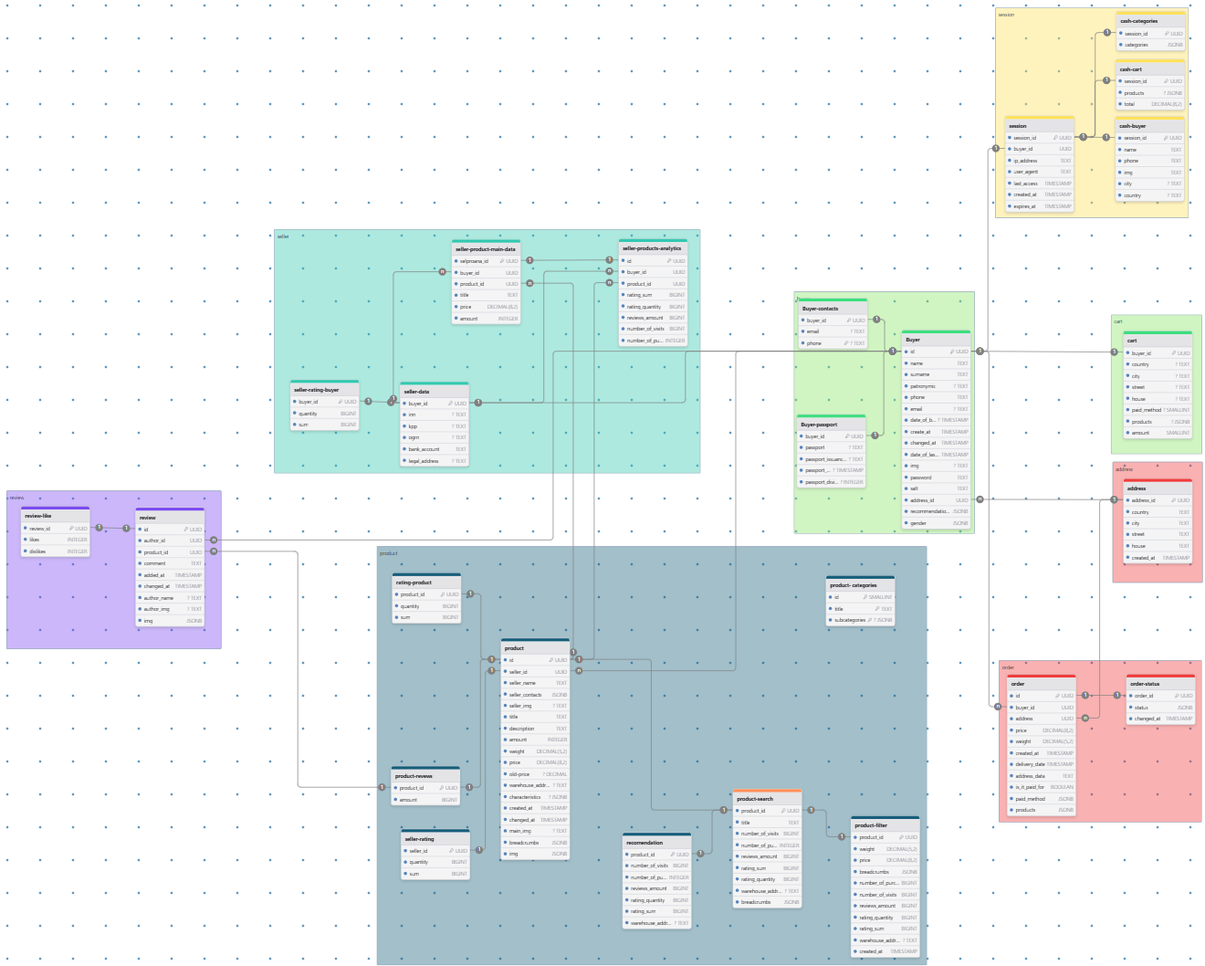
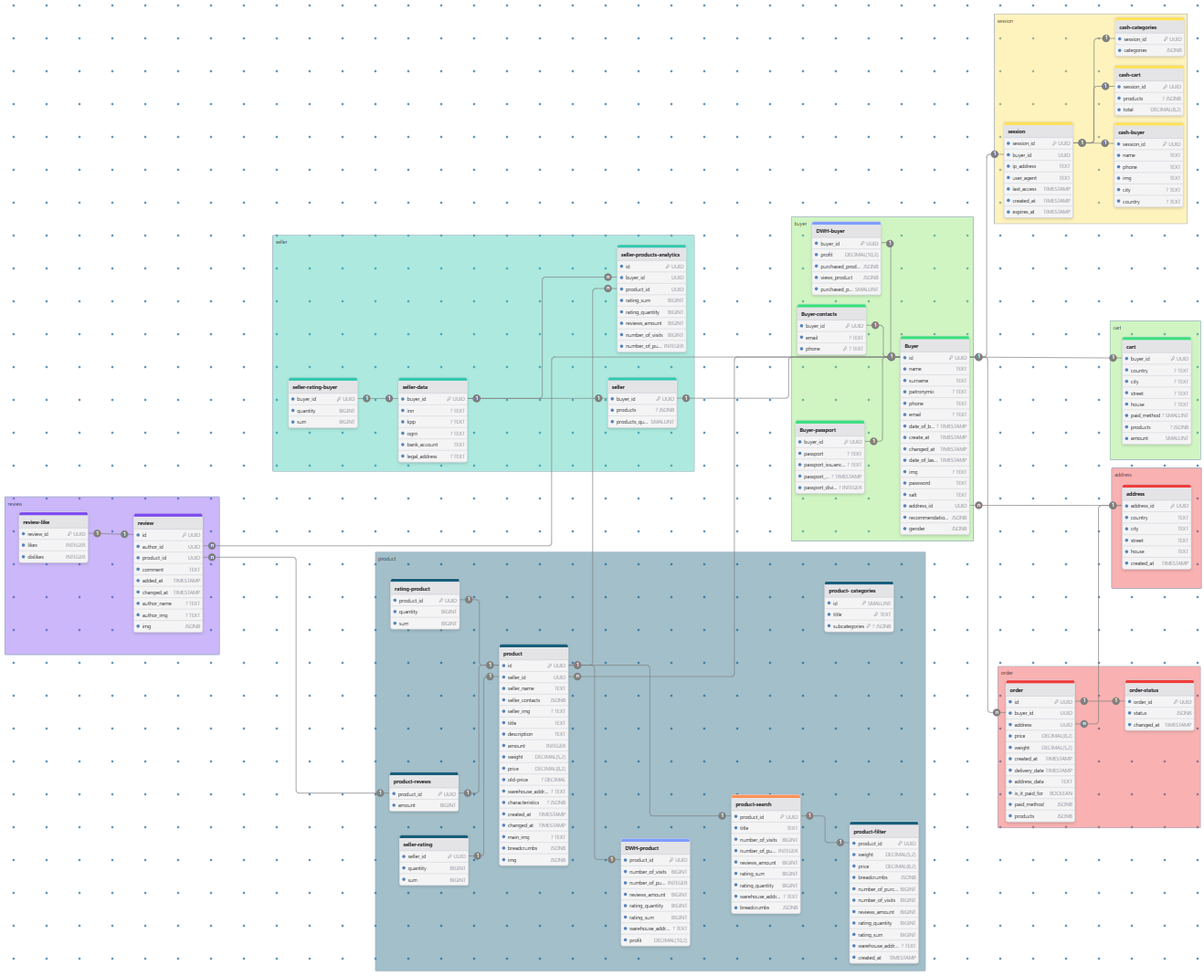
[fix] добавлен DWH и немного подправлена логика продавца

diff --git a/README.md b/README.md
@@ -786,7 +786,7 @@ Anycast позволяет оптимизировать маршрутизаци
 **Общая схема:**
 
 ![img_6.png](img%2F5%2Fimg_6.png)
-
+ 
 **Теперь покажем приближенные фрагменты**
 
 *Пользователь:*
@@ -836,14 +836,14 @@ URL: [https://www.drawdb.app/editor?shareId=b53cf5f4253d7b82c51b3d435ac52a20](ht
 **Объяснение:**
 - **Объединение:** данные по сессии и кеши объединены в одну базу данных, так как они часто запрашиваются вместе и требуют высокой скорости доступа.
 - **Добавленные кэш-таблицы:**
-   - **`cash-buyer`:** Хранит часто используемые данные покупателя (`name`, `phone`, `img`, `city`, `country`) для быстрого доступа по `session_id`.
-   - **`cash-cart`:** Хранит данные корзины (`products` в JSONB, `total`) для быстрого доступа и обновления. 
-   - **`cash-categories`:** Хранит структуру категорий и подкатегорий в JSONB для быстрого отображения каталога.
-- **Индексы:** Уникальный индекс на `session_id` обеспечивает быстрый доступ к кэшированным данным.
-- **Денормализация:** В `cash-cart` и `cash-categories` используется JSONB для хранения вложенных данных (список товаров и категории), что ускоряет доступ и исключает необходимость в JOIN.
+   - **`cash-buyer`:** хранит часто используемые данные покупателя (`name`, `phone`, `img`, `city`, `country`) для быстрого доступа по `session_id`.
+   - **`cash-cart`:** хранит данные корзины (`products` в JSONB, `total`) для быстрого доступа и обновления. 
+   - **`cash-categories`:** хранит структуру категорий и подкатегорий в JSONB для быстрого отображения каталога.
+- **Индексы:** уникальный индекс на `session_id` обеспечивает быстрый доступ к кэшированным данным.
+- **Денормализация:** в `cash-cart` и `cash-categories` используется JSONB для хранения вложенных данных (список товаров и категории), что ускоряет доступ и исключает необходимость в JOIN.
 - **СУБД:** Redis выбран для кэш-таблиц из-за высокой скорости работы с данными в памяти;
-- **Шардирование:** По `session_id` для равномерного распределения нагрузки между шардами.
-- **Резервирование:** Репликация обеспечивает отказоустойчивость.
+- **Шардирование:** по `session_id` для равномерного распределения нагрузки между шардами.
+- **Резервирование:** репликация обеспечивает отказоустойчивость.
 
 ### 1. Пользовательские данные
 | **Таблица**      | **Описание**                                                                          | **Индексы**                                                                                            | **Денормализация**                                                                                            | **СУБД**     | **Шардирование** | **Резервирование**                | **Клиентские библиотеки / Интеграции**             |
@@ -854,12 +854,12 @@ URL: [https://www.drawdb.app/editor?shareId=b53cf5f4253d7b82c51b3d435ac52a20](ht
 | `cart`           | Корзина покупателя: товары, адрес доставки.                                           | `buyer_id` (PK)                                                                                        | `products` в JSONB для хранения списка товаров без JOIN.                                                      | PostgreSQL   | По `buyer_id`    | Репликация + WAL + pg_basebackup  | SQLAlchemy, Hibernate, Redis (кэш)                 |
 
 **Объяснение:**
-- **Объединение:** Отдельная база данных для пользовательских данных, так как они часто запрашиваются вместе и требуют высокой скорости доступа и транзакционной целостности.
-- **Индексы:** Уникальные индексы на `email` и `phone` для быстрого поиска. Индексы на даты для аналитики.
+- **Объединение:** отдельная база данных для пользовательских данных, так как они часто запрашиваются вместе и требуют высокой скорости доступа и транзакционной целостности.
+- **Индексы:** уникальные индексы на `email` и `phone` для быстрого поиска. Индексы на даты для аналитики.
 - **Денормализация:** `recommendation_data` в `Buyer` хранит метрики и историю в JSONB, чтобы избежать JOIN.
 - **СУБД:** PostgreSQL для сложных транзакций.
-- **Шардирование:** По `buyer_id` для равномерного распределения нагрузки.
-- **Резервирование:** Репликация для отказоустойчивости.
+- **Шардирование:** по `buyer_id` для равномерного распределения нагрузки.
+- **Резервирование:** репликация для отказоустойчивости.
 
 ### 2 Продукты и связанные данные
 
@@ -870,7 +870,6 @@ URL: [https://www.drawdb.app/editor?shareId=b53cf5f4253d7b82c51b3d435ac52a20](ht
 | `product-filter`           | Данные для фильтрации продуктов: цена, вес, категории.       | `product_id` (PK)                                           | Дублирует данные из `product` и `product-search` для ускорения фильтрации.     | PostgreSQL     | По `product_id`  | Репликация + WAL + pg_basebackup  | SQLAlchemy, Hibernate                       |
 | `product-reviews`          | Количество отзывов по продуктам.                             | `product_id` (PK)                                           | Нет                                                                            | PostgreSQL     | По `product_id`  | Репликация + WAL + pg_basebackup  | SQLAlchemy, Hibernate                       |
 | `rating-product`           | Рейтинг продуктов: количество оценок и их сумма.             | `product_id` (PK)                                           | Нет                                                                            | PostgreSQL     | По `product_id`  | Репликация + WAL + pg_basebackup  | SQLAlchemy, Hibernate                       |
-| `recomendation`            | Данные для рекомендаций: посещения, покупки, рейтинги.       | `product_id` (PK)                                           | Денормализована для быстрого доступа к данным рекомендаций.                    | PostgreSQL     | По `product_id`  | Репликация + WAL + pg_basebackup  | SQLAlchemy, Hibernate                       |
 | `product-categories`       | Категории продуктов и подкатегории.                          | `id` (PK), `title`                                          | `subcategories` в JSONB для хранения вложенных данных.                         | PostgreSQL     | Нет              | Репликация + WAL + pg_basebackup  | SQLAlchemy, Hibernate                       |
 | `seller-rating`            | Рейтинг продавцов: сумма и количество оценок.                | `seller_id` (PK)                                            | Нет                                                                            | PostgreSQL     | По `seller_id`   | Репликация + WAL + pg_basebackup  | SQLAlchemy, Hibernate                       |
 
@@ -880,12 +879,12 @@ URL: [https://www.drawdb.app/editor?shareId=b53cf5f4253d7b82c51b3d435ac52a20](ht
 | `product-search`           | Данные для полнотекстового поиска: название, метрики.        | `product_id` (PK), `title`                                  | Денормализована для быстрого поиска, дублирует данные из `product`.            | Elasticsearch  | По `product_id`   | Снапшоты + репликация шардов | Elasticsearch-Py (Python), Java REST Client |
 
 **Объяснение:**
-- **Объединение:** Отдельная база данных для продуктов, так как они часто запрашиваются вместе и требуют быстрого поиска.
+- **Объединение:** отдельная база данных для продуктов, так как они часто запрашиваются вместе и требуют быстрого поиска.
 - **Индексы:** `seller_id` для поиска по продавцу, `title` для поиска по названию.
 - **Денормализация:** `product-search` и `recomendation` содержат дублирующие данные для ускорения операций.
 - **СУБД:** Elasticsearch для `product-search` (поиск), PostgreSQL для остальных (транзакции и аналитика).
-- **Шардирование:** По `product_id` для распределения нагрузки.
-- **Резервирование:** Репликация для отказоустойчивости.
+- **Шардирование:** по `product_id` для распределения нагрузки.
+- **Резервирование:** репликация для отказоустойчивости.
 
 ### 3. Отзывы и рейтинги
 | **Таблица**    | **Описание**                                  | **Индексы**                                         | **Денормализация**                                  | **СУБД**      | **Шардирование**  | **Резервирование**                | **Клиентские библиотеки / Интеграции**      |
@@ -894,28 +893,28 @@ URL: [https://www.drawdb.app/editor?shareId=b53cf5f4253d7b82c51b3d435ac52a20](ht
 | `review-like`  | Лайки и дизлайки отзывов.                     | `review_id` (PK)                                    | Нет                                                 | PostgreSQL    | По `review_id`    | Репликация + WAL + pg_basebackup  | SQLAlchemy, Hibernate, Kafka (очереди)      |
 
 **Объяснение:**
-- **Объединение:** Отдельная база данных для отзывов из-за их объема и необходимости отдельного управления.
+- **Объединение:** отдельная база данных для отзывов из-за их объема и необходимости отдельного управления.
 - **Индексы:** `product_id` и `author_id` для быстрого доступа к отзывам по продукту или автору.
 - **Денормализация:** `img` в JSONB для уменьшения JOIN.
 - **СУБД:** PostgreSQL для транзакций и сложных запросов.
-- **Шардирование:** По `product_id` или `review_id` для распределения нагрузки.
-- **Резервирование:** Репликация для отказоустойчивости.
+- **Шардирование:** по `product_id` или `review_id` для распределения нагрузки.
+- **Резервирование:** репликация для отказоустойчивости.
 
 ### 4. Продавцы и их данные
-| **Таблица**                 | **Описание**                                                | **Индексы**                                   | **Денормализация** | **СУБД**       | **Шардирование**    | **Резервирование**                | **Клиентские библиотеки / Интеграции** |
-|-----------------------------|-------------------------------------------------------------|-----------------------------------------------|--------------------|----------------|---------------------|-----------------------------------|----------------------------------------|
-| `seller-data`               | Данные продавцов: ИНН, банковские реквизиты.                | `buyer_id` (PK)                               | Нет                | PostgreSQL     | По `buyer_id`       | Репликация + WAL + pg_basebackup  | SQLAlchemy, Hibernate                  |
-| `seller-rating-buyer`       | Рейтинг продавцов от покупателей.                           | `buyer_id` (PK)                               | Нет                | PostgreSQL     | По `buyer_id`       | Репликация + WAL + pg_basebackup  | SQLAlchemy, Hibernate                  |
-| `seller-products-analytics` | Аналитика продуктов продавца: посещения, покупки, рейтинги. | `id` (PK), `buyer_id`, `product_id`           | Нет                | PostgreSQL     | По `buyer_id`       | Репликация + WAL + pg_basebackup  | SQLAlchemy, Hibernate                  |
-| `seller-product-main-data`  | Основные данные продуктов продавца: цена, количество.       | `selproana_id` (PK), `buyer_id`, `product_id` | Нет                | PostgreSQL     | По `buyer_id`       | Репликация + WAL + pg_basebackup  | SQLAlchemy, Hibernate                  |
+| **Таблица**                 | **Описание**                                                | **Индексы**                         | **Денормализация**       | **СУБД**       | **Шардирование**   | **Резервирование**                 | **Клиентские библиотеки / Интеграции** |
+|-----------------------------|-------------------------------------------------------------|-------------------------------------|--------------------------|----------------|--------------------|------------------------------------|----------------------------------------|
+| `seller`                    | Данные продавцов: список продуктов и их количество.         | `buyer_id` (PK)                     | Да (JSONB для продуктов) | PostgreSQL     | По `buyer_id`      | Репликация + WAL + pg_basebackup   | SQLAlchemy, Hibernate                  |
+| `seller-data`               | Данные продавцов: ИНН, банковские реквизиты.                | `buyer_id` (PK)                     | Нет                      | PostgreSQL     | По `buyer_id`      | Репликация + WAL + pg_basebackup   | SQLAlchemy, Hibernate                  |
+| `seller-rating-buyer`       | Рейтинг продавцов от покупателей.                           | `buyer_id` (PK)                     | Нет                      | PostgreSQL     | По `buyer_id`      | Репликация + WAL + pg_basebackup   | SQLAlchemy, Hibernate                  |
+| `seller-products-analytics` | Аналитика продуктов продавца: посещения, покупки, рейтинги. | `id` (PK), `buyer_id`, `product_id` | Нет                      | PostgreSQL     | По `buyer_id`      | Репликация + WAL + pg_basebackup   | SQLAlchemy, Hibernate                  |
 
 **Объяснение:**
-- **Объединение:** Отдельная база данных для продавцов, так как данные связаны с продуктами и пользователями.
-- **Индексы:** Индексы на ключи для быстрого доступа к данным продавцов и их продуктов.
-- **Денормализация:** Не применяется, так как данные нормализованы для целостности.
+- **Объединение:** отдельная база данных для продавцов, так как данные связаны с продуктами и пользователями.
+- **Индексы:** индексы на ключи для быстрого доступа к данным продавцов и их продуктов.
+- **Денормализация:** не применяется, так как данные нормализованы для целостности.
 - **СУБД:** PostgreSQL для транзакций и аналитики.
-- **Шардирование:** По `seller_id` или `buyer_id` для распределения нагрузки.
-- **Резервирование:** Репликация для отказоустойчивости.
+- **Шардирование:** по `buyer_id` для распределения нагрузки.
+- **Резервирование:** репликация для отказоустойчивости.
 
 ### 5. Заказы и корзины
 | **Таблица**    | **Описание**                                       | **Индексы**                                          | **Денормализация**                                                                                                      | **СУБД**       | **Шардирование** | **Резервирование**                | **Клиентские библиотеки / Интеграции** |
@@ -925,18 +924,39 @@ URL: [https://www.drawdb.app/editor?shareId=b53cf5f4253d7b82c51b3d435ac52a20](ht
 | `address`      | Адреса доставки: страна, город, улица.             | `address_id` (PK)                                    | Нет                                                                                                                     | PostgreSQL     | По `address_id`  | Репликация + WAL + pg_basebackup  | SQLAlchemy, Hibernate                  |
 
 **Объяснение:**
-- **Объединение:** Отдельная база данных для заказов из-за высоких требований к целостности и транзакциям.
+- **Объединение:** отдельная база данных для заказов из-за высоких требований к целостности и транзакциям.
 - **Индексы:** `buyer_id` для доступа к заказам пользователя, даты для аналитики.
 - **Денормализация:** `products` в JSONB в `cart` и `order` для ускорения доступа.
 - **СУБД:** PostgreSQL для транзакционной поддержки.
-- **Шардирование:** По `buyer_id` или `order_id` для распределения нагрузки.
-- **Резервирование:** Репликация для отказоустойчивости.
+- **Шардирование:** по `buyer_id` или `order_id` для распределения нагрузки.
+- **Резервирование:** репликация для отказоустойчивости.
+
+### 6. Отдельная бд для DWH в ClickHouse
+| **Таблица**                | **Описание**                                                            | **Индексы**        | **Денормализация**                  | **СУБД**    | **Шардирование** | **Резервирование** | **Клиентские библиотеки / Интеграции** |
+|----------------------------|-------------------------------------------------------------------------|--------------------|-------------------------------------|-------------|------------------|--------------------|----------------------------------------|
+| **`DWH-buyer`**            | Аналитические данные о покупателях: прибыль, покупки, просмотры.        | `buyer_id` (PK)    | Да (JSONB для покупок и просмотров) | ClickHouse  | По `buyer_id`    | Репликация         | clickhouse-driver, JDBC                |
+| **`DWH-product`**          | Аналитические данные о продуктах: посещения, покупки, отзывы, рейтинги. | `product_id` (PK)  | Нет                                 | ClickHouse  | По `product_id`  | Репликация         | clickhouse-driver, JDBC                |
+
+#### Объяснение для таблиц `DWH-buyer` и `DWH-product`:
+- **Объединение**: таблицы предназначены для аналитики и интегрируются в Data Warehouse (DWH). `DWH-buyer` связана с таблицей `Buyer` через `buyer_id`, а `DWH-product` — с таблицей `product` через `product_id`. Они оптимизированы для быстрой обработки больших объемов данных.
+- **Индексы**:
+   - Для `DWH-buyer`: первичный ключ `buyer_id` обеспечивает уникальность и быстрый доступ.
+   - Для `DWH-product`: первичный ключ `product_id` обеспечивает уникальность и быстрый доступ.
+- **Денормализация**:
+   - В `DWH-buyer` поля `purchased_products` и `views_product` используют JSONB для хранения списков купленных и просмотренных продуктов, что ускоряет аналитические запросы без дополнительных соединений.
+   - В `DWH-product` денормализация не применяется, так как данные нормализованы для точности аналитики.
+- **СУБД**: используется ClickHouse, который оптимизирован для аналитических запросов и обработки больших объемов данных.
+- **Шардирование**:
+   - Для `DWH-buyer`: по `buyer_id` для равномерного распределения данных о покупателях.
+   - Для `DWH-product`: по `product_id` для распределения данных о продуктах.
+- **Резервирование**: репликация в ClickHouse обеспечивает отказоустойчивость и доступность данных.
+- **Клиентские библиотеки**: интеграция осуществляется через `clickhouse-driver` для Python или JDBC для Java, что соответствует требованиям аналитических приложений.
 
 ### Итоговые замечания
-- **Индексы:** Настроены для ускорения часто выполняемых запросов (поиск, фильтрация, аналитика).
-- **Денормализация:** Применяется для уменьшения JOIN и ускорения доступа к данным (JSONB активно используется).
-- **Выбор СУБД:** PostgreSQL для транзакций и сложных запросов, Elasticsearch для поиска, Redis для сессий и кешей.
-- **Шардирование и резервирование:** По ключевым полям для масштабируемости и отказоустойчивости.
+- **Индексы:** настроены для ускорения часто выполняемых запросов (поиск, фильтрация, аналитика).
+- **Денормализация:** применяется для уменьшения JOIN и ускорения доступа к данным (JSONB активно используется).
+- **Выбор СУБД:** PostgreSQL для транзакций и сложных запросов, Elasticsearch для поиска, Redis для сессий и кешей и ClickHouse для DWH.
+- **Шардирование и резервирование:** по ключевым полям для масштабируемости и отказоустойчивости.
 - **Клиентские библиотеки:** SQLAlchemy и Hibernate для ORM, Redis для кэширования, Kafka/RabbitMQ для очередей.
 
 ### Балансировка запросов / мультиплексирование подключений
@@ -951,32 +971,35 @@ URL: [https://www.drawdb.app/editor?shareId=b53cf5f4253d7b82c51b3d435ac52a20](ht
 На глобальном уровне запросы распределяются между ЦОДами, расположенными в разных регионах, чтобы пользователи получали доступ к ближайшему доступному ЦОДу.
 
 - **Методы:**
-   - **GeoDNS**: Направляет запросы к ближайшему ЦОДу на основе геолокации пользователя. Например, пользователи из Москвы обращаются к ЦОДу в Москве.
-   - **BGP Anycast**: Один IP-адрес обслуживается несколькими ЦОДами, автоматически направляя трафик к ближайшему узлу по маршрутам BGP.
-   - **Failover**: При отказе одного ЦОДа трафик перенаправляется на другой доступный ЦОД.
+   - **GeoDNS**: направляет запросы к ближайшему ЦОДу на основе геолокации пользователя. Например, пользователи из Москвы обращаются к ЦОДу в Москве.
+   - **BGP Anycast**: один IP-адрес обслуживается несколькими ЦОДами, автоматически направляя трафик к ближайшему узлу по маршрутам BGP.
+   - **Failover**: при отказе одного ЦОДа трафик перенаправляется на другой доступный ЦОД.
 
 - **Применение:**
-   - **Сессии и кэши (Redis)**: Данные сессий (`session`, `cash-buyer`, `cash-cart`) реплицируются между ЦОДами с использованием глобального кэша (например, Redis Cluster с георепликацией). Запросы на чтение идут к ближайшему ЦОДу, а при его недоступности — к резервному.
-   - **Пользовательские данные (PostgreSQL)**: Данные пользователей (`Buyer`, `cart`) шардированы по регионам (см. часть про глобальную балансировку). Запросы на чтение обслуживаются локальными репликами, а запись идет и на региональный ЦОД, и на мастер в основном ЦОДе,который затем раскидывает данные на все остальные.
-   - **Продукты (PostgreSQL и Elasticsearch)**: Данные продуктов (`product`, `product-filter`) также могут быть шардированы по регионам. Поисковые запросы в Elasticsearch распределяются по ближайшему кластеру.
-   - **Отзывы, продавцы, заказы (PostgreSQL)**: Георепликация или шардирование по `product_id`, `buyer_id`, `order_id` обеспечивает доступность данных ближе к пользователю.
+   - **DWH** (ClickHouse): данные в ClickHouse реплицируются между ЦОДами для обеспечения доступности и снижения задержек. Запросы на чтение (например, аналитика заказов или поведения пользователей) направляются к ближайшему ЦОДу, а при его недоступности — к резервному. Запись дублируется в центральный ЦОД (в Москве), который затем синхронизирует данные с региональными ЦОДами, и ближайшим, с которым происходит общение. 
+   - **Сессии и кэши (Redis)**: данные сессий (`session`, `cash-buyer`, `cash-cart`) реплицируются между ЦОДами с использованием глобального кэша (например, Redis Cluster с георепликацией). Запросы на чтение идут к ближайшему ЦОДу, а при его недоступности — к резервному.
+   - **Пользовательские данные (PostgreSQL)**: данные пользователей (`Buyer`, `cart`) шардированы по регионам (см. часть про глобальную балансировку). Запросы на чтение обслуживаются локальными репликами, а запись идет и на региональный ЦОД, и на мастер в основном ЦОДе,который затем раскидывает данные на все остальные.
+   - **Продукты (PostgreSQL и Elasticsearch)**: данные продуктов (`product`, `product-filter`) также могут быть шардированы по регионам. Поисковые запросы в Elasticsearch распределяются по ближайшему кластеру.
+   - **Отзывы, продавцы, заказы (PostgreSQL)**: георепликация или шардирование по `product_id`, `buyer_id`, `order_id` обеспечивает доступность данных ближе к пользователю.
 
 - **Инструменты:**
-   - GeoDNS-серверы (например, Cloudflare, Route 53).
+   - GeoDNS-серверы (Cloudflare, Route 53).
    - BGP Anycast через сетевую инфраструктуру провайдера.
 
 ##### Локальная балансировка запросов
 Внутри каждого ЦОДа запросы распределяются между серверами и экземплярами баз данных для оптимизации локальных ресурсов.
 
 - **Применение:**
-   - **Сессии и кэши (Redis)**: Локальный балансировщик (HAProxy) распределяет запросы между шардами Redis внутри ЦОДа. Redis Cluster обеспечивают автоматическое переключение при сбоях.
-   - **Пользовательские данные (PostgreSQL)**: Запросы на чтение (`SELECT`) распределяются между локальными репликами через HAProxy, а на запись (`INSERT`, `UPDATE`) — на мастер. Шардирование по `buyer_id`.
-   - **Продукты (PostgreSQL и Elasticsearch)**: В PostgreSQL запросы на чтение идут на локальные реплики, в Elasticsearch — встроенная кластеризация распределяет нагрузку.
-   - **Отзывы, продавцы, заказы (PostgreSQL)**: Аналогично, чтение — на реплики, запись — на мастер, с локальным шардированием.
+   - **DWH** (ClickHouse): поддерживает кластерную архитектуру с шардированием и репликацией данных между узлами. Запросы распределяются между узлами кластера для параллельной обработки. Локальный балансировщик (HAProxy) направляет запросы к доступным узлам ClickHouse внутри ЦОДа.
+   - **Сессии и кэши (Redis)**: локальный балансировщик (HAProxy) распределяет запросы между шардами Redis внутри ЦОДа. Redis Cluster обеспечивают автоматическое переключение при сбоях.
+   - **Пользовательские данные (PostgreSQL)**: запросы на чтение (`SELECT`) распределяются между локальными репликами через HAProxy, а на запись (`INSERT`, `UPDATE`) — на мастер. Шардирование по `buyer_id`.
+   - **Продукты (PostgreSQL и Elasticsearch)**: в PostgreSQL запросы на чтение идут на локальные реплики, в Elasticsearch — встроенная кластеризация распределяет нагрузку.
+   - **Отзывы, продавцы, заказы (PostgreSQL)**: аналогично, чтение — на реплики, запись — на мастер, с локальным шардированием.
 
 - **Инструменты:**
    - **HAProxy**: Балансировка TCP/HTTP-запросов.
-   - **Redis Cluster**: Управление шардами и репликами Redis.
+   - **ClickHouse Distributed Table**: распределяет запросы по шардам и репликам в ClickHouse.
+   - **Redis Cluster**: управление шардами и репликами Redis.
 
 #### Мультиплексирование подключений
 
@@ -987,12 +1010,14 @@ URL: [https://www.drawdb.app/editor?shareId=b53cf5f4253d7b82c51b3d435ac52a20](ht
    - Уменьшает задержки и накладные расходы.
 
 - **Применение:**
-   - **Сессии и кэши (Redis)**: Клиентские библиотеки (Redis-py, Jedis) поддерживают мультиплексирование, отправляя команды через одно подключение к шардам в локальном ЦОДе.
+   - **DWH** (ClickHouse): клиентские библиотеки (например, clickhouse-driver для Python или JDBC для Java) поддерживают мультиплексирование, позволяя отправлять несколько запросов через одно подключение. Пулинг подключений повторно использует существующие соединения, снижая нагрузку на сервер.
+   - **Сессии и кэши (Redis)**: клиентские библиотеки (Redis-py, Jedis) поддерживают мультиплексирование, отправляя команды через одно подключение к шардам в локальном ЦОДе.
    - **Пользовательские данные, продукты, отзывы, продавцы, заказы (PostgreSQL)**: PgBouncer создает пул подключений, мультиплексируя запросы от приложений к мастеру и репликам внутри ЦОДа. Например, 100 клиентов используют 10 подключений.
    - **Продукты (Elasticsearch)**: HTTP-запросы мультиплексируются через клиентские библиотеки (Elasticsearch-Py).
 
 - **Инструменты:**
-   - **PgBouncer**: Для PostgreSQL, оптимизирует подключения внутри ЦОДа.
+   - **clickhouse-driver**: для Python, мультиплексирование в ClickHouse.
+   - **PgBouncer**: для PostgreSQL, оптимизирует подключения внутри ЦОДа.
    - Клиентские библиотеки для Redis и Elasticsearch.
 
 - **Пример запроса:**
@@ -1008,16 +1033,20 @@ URL: [https://www.drawdb.app/editor?shareId=b53cf5f4253d7b82c51b3d435ac52a20](ht
 Схема резервного копирования только для центрального ЦОДа, так как в региональных будем если что брать данные с центрального.
 
 #### Принципы
-- **Регулярность**: Копии создаются ежедневно или чаще.
-- **Полнота**: Включают все данные для восстановления.
-- **Тестирование**: Регулярная проверка восстановления.
+- **Регулярность**: копии создаются ежедневно или чаще.
+- **Полнота**: включают все данные для восстановления.
+- **Тестирование**: регулярная проверка восстановления.
 
 #### Типы резервных копий
-- **Полные**: Еженедельные копии всех данных.
-- **Инкрементные**: Ежедневные копии изменений.
-- **Дифференциальные**: Изменения с последней полной копии.
+- **Полные**: еженедельные копии всех данных.
+- **Инкрементные**: ежедневные копии изменений.
+- **Дифференциальные**: изменения с последней полной копии.
 
 #### Глобальное резервное копирование
+- **DWH (ClickHouse)**:
+   - Полные копии данных еженедельно.
+   - Инкрементные копии ежедневно.
+   - Хранение: Копии реплицируются в другой ЦОД.
 - **Сессии и кэши (Redis)**:
    - Полные копии (RDB) еженедельно, инкрементные (AOF) каждые 5 минут.
    - Хранение: Копии реплицируются в ещё один ЦОД.
@@ -1030,32 +1059,35 @@ URL: [https://www.drawdb.app/editor?shareId=b53cf5f4253d7b82c51b3d435ac52a20](ht
    - Хранение: Репозиторий в другом ЦОДе.
 
 #### Локальное резервное копирование
-- **Redis**: Локальные AOF и RDB для быстрого восстановления в ЦОДе.
-- **PostgreSQL**: Локальные полные и инкрементные копии, автоматическое переключение на резервный мастер при сбоях.
-- **Elasticsearch**: Локальные снимки для восстановления внутри ЦОДа.
+- **ClickHouse**: локальные полные и инкрементные копии для быстрого восстановления внутри ЦОДа. Автоматическое переключение на резервные узлы при сбоях.
+- **Redis**: локальные AOF и RDB для быстрого восстановления в ЦОДе.
+- **PostgreSQL**: локальные полные и инкрементные копии, автоматическое переключение на резервный мастер при сбоях.
+- **Elasticsearch**: локальные снимки для восстановления внутри ЦОДа.
 
 #### Пример графика
 - **Ежедневно**:
+   - ClickHouse: инкрементные копии в 01:00.
    - Redis: AOF каждые 5 минут.
    - PostgreSQL: WAL в 00:00.
-   - Elasticsearch: Инкрементные снимки в 01:00.
+   - Elasticsearch: инкрементные снимки в 01:00.
 - **Еженедельно (воскресенье)**:
+   - ClickHouse: полные копии в 02:00.
    - Redis: RDB в 02:00.
    - PostgreSQL: `pg_basebackup` в 03:00.
-   - Elasticsearch: Полный снимок в 04:00.
+   - Elasticsearch: полный снимок в 04:00.
 
 #### Интеграция с системой
-- Глобально: Копии распределяются между ЦОДами для защиты от сбоев.
-- Локально (на центральном ЦОДе): Копии используются для быстрого восстановления внутри ЦОДа.
+- Глобально: копии распределяются между ЦОДами для защиты от сбоев.
+- Локально (на центральном ЦОДе): копии используются для быстрого восстановления внутри ЦОДа.
 
 ### Итоговая архитектура
 - **Балансировка запросов**:
    - **Глобально**: GeoDNS и BGP Anycast направляют трафик к ближайшему ЦОДу, данные реплицируются или шардируются по регионам.
-   - **Локально**: HAProxy распределяют запросы между шардами и репликами внутри ЦОДа.
+   - **Локально**: HAProxy и встроенные механизмы (ClickHouse Distributed Table, Redis Cluster) распределяют запросы внутри ЦОДа.
 - **Мультиплексирование подключений**: PgBouncer и клиентские библиотеки оптимизируют подключения на обоих уровнях.
 - **Резервное копирование (для центрального ЦОДа)**:
-   - **Глобально**: Копии хранятся в разных ЦОДах.
-   - **Локально**: Локальные копии обеспечивают быстрое восстановление на центральном ЦОДе, а для региональных будем перенаправлять запрос на центральный, который с его данных восстановит его, а пользователь будут обращаться к другому ЦОДу.
+   - **Глобально**: копии хранятся в разных ЦОДах.
+   - **Локально**: локальные копии обеспечивают быстрое восстановление на центральном ЦОДе, а для региональных будем перенаправлять запрос на центральный, который с его данных восстановит его, а пользователь будут обращаться к другому ЦОДу.
 
 > [!IMPORTANT]
 > Важно уточнить структуру - есть центральный ЦОД с хранилищем в Москве, у него периодически происходит резервное копирование. Запросы на чтение отправляются в ближайшие ЦОДы, а запись дублируется в ближайший и в центральный, который раз в определенное время рассылает свои данные на другие ЦОДы. Это нужно для поддержания целостности (например товар сначала добавляется в одном ЦОДе и в центральном, а затем рассылается на другие).
